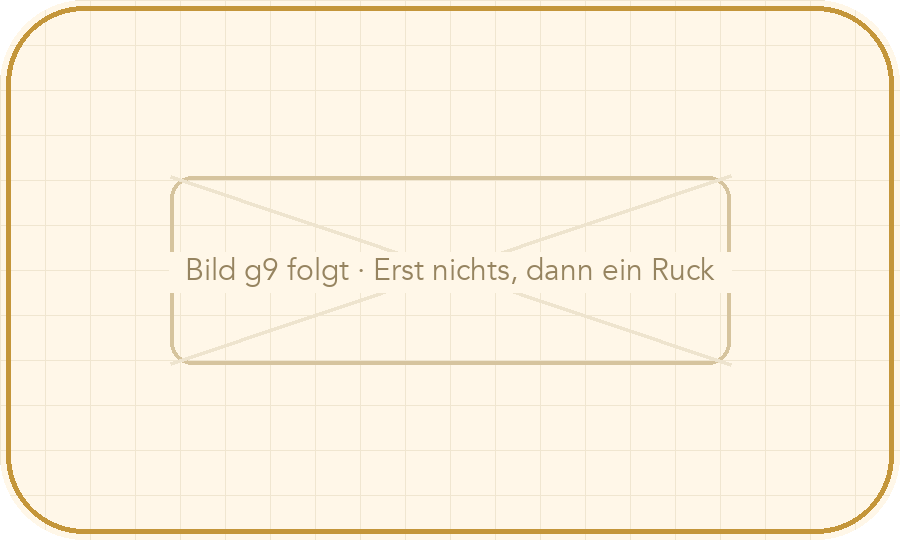
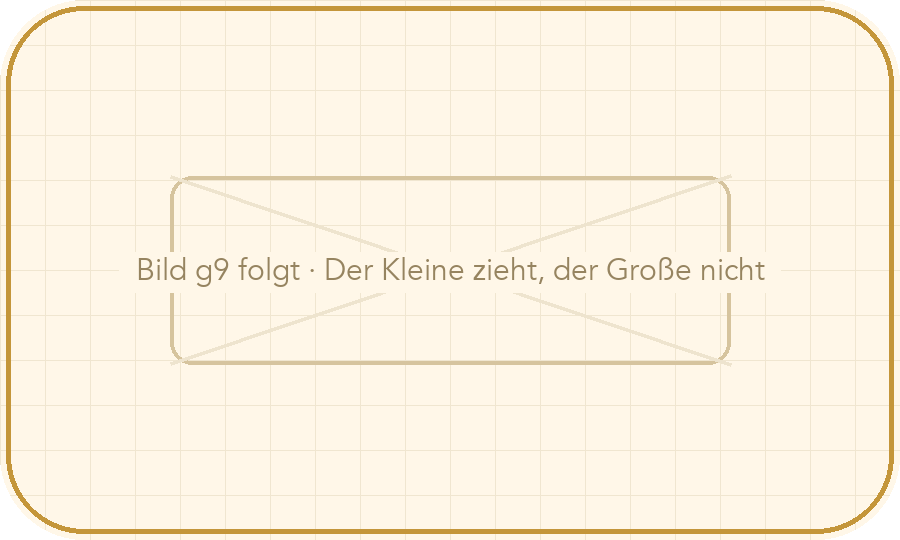
Fuenf Bildauftraege nachgezogen, zwei Bilder zurueckgezogen
Der Bau ordnet Einstiegsbilder ueber den SEITENTITEL zu. Drei der neuen
Einstiege haben einen neuen Titel - damit lag fuer sie kein Bild mehr im
Ordner, und der Bau hat richtig einen Platzhalter gesetzt.

Bei l1 war es umgekehrt und schlimmer: Der Dateiname passte weiter, das
BILD aber nicht mehr. Es zeigte Kerze, Mond und Reflektorstreifen im
dunklen Zimmer - die Seite fragt jetzt, ob Licht geradeaus laeuft, und
der Bildschirm zeigt zwei Blenden mit Loechern. Ein Bild, das die alte
Szene zeigt, ist schlimmer als gar keins: Es widerspricht der Seite,
ohne dass jemand es merkt. Deshalb ueber bilder.ablehnen() an seiner
Pruefsumme vorgemerkt - so holt der naechste Bau es nicht wieder.

KOSTEN, die Abdullah kennen muss: In Klasse 5/6 Realschule tragen sc1
und l1 jetzt einen Platzhalter statt einer fertigen Illustration
(878 KB und 598 KB). Die drei anderen (g9, sl3, sl5) waren ohnehin noch
Platzhalter, dort hat sich nur die Aufschrift geaendert.

Die fuenf Auftraege stehen neu in PROMPTS.md - in der Form des jeweiligen
Bandes, mit Figurenkanon, Verbotszeile und fertigem englischem Prompt.
Die Auftrags-PDFs liegen auf dem Schreibtisch (Klasse 5: 3 Seiten,
Klasse 7: 7, Gymnasium 5/6: 39).

Dazu: stellen.json kennt jetzt die drei Stellungen, die eg7 und kp13
ablesen (N1/N2 = 0,5 und 2,0 am Transformator, 200 cm und 10 min am
Strahlenschutz) - damit stehen ALLE 19 Baende auf 0 Werten ohne
Entsprechung am Bildschirm. me1 sagt jetzt selbst, dass die Zeiten der
[…]

Changed region(s): [[0.1556, 0.4741, 0.84, 0.5333]]

diff --git a/js/heft-bruecke.js b/js/heft-bruecke.js
@@ -61,7 +61,7 @@ const HEFT_SEITEN = {
     sim: "lichtausbreitung", seite: 35,
     kapitel: "Licht & Schatten",
     name: "Lichtquellen und Lichtausbreitung",
-    titel: "Was leuchtet hier eigentlich?",
+    titel: "Zwei Löcher, und trotzdem dunkel",
     frage: "Läuft Licht geradeaus oder um die Ecke?",
     schritte: ["Stelle „Loch der 1. Blende“ auf 0 und „Loch der 2. Blende“ auf 0. Schau nach, ob hinten Licht an der Wand ankommt.", "Lass die 1. Blende auf 0 und schiebe „Loch der 2. Blende“ nach oben und nach unten. Lies ab, wann das Licht verschwindet.", "Stelle „Loch der 1. Blende“ auf +18. Probiere aus, bei welcher Zahl der 2. Blende wieder Licht ankommt."]
   },
@@ -223,7 +223,7 @@ const HEFT_SEITEN = {
     sim: "ton-entsteht", seite: 134,
     kapitel: "Schall & Hören",
     name: "Wie entsteht ein Ton?",
-    titel: "Das Brummen aus der Gitarre",
+    titel: "Das Brummen aus der Keksdose",
     frage: "Wie entsteht ein Ton?",
     schritte: ["Wähle Gummiband zupfen. Beobachte das Band ganz genau und höre hin, ob dabei ein Ton entsteht.", "Wähle nun Finger auf das Band legen. Lies ab, ob das Band noch zittert und ob der Ton weitergeht.", "Gegenprobe am Tisch: Spanne ein Gummiband zwischen deine Finger, zupfe es und stoppe es dann mit dem Daumen."]
   },
@@ -234,7 +234,7 @@ const HEFT_SEITEN = {
     name: "Wovon hängt die Lautstärke ab?",
     titel: "Nicht so laut!",
     frage: "Wovon hängt die Lautstärke ab?",
-    schritte: ["Stelle „So fest zupft Ben am Gummiband“ auf sanft. Beobachte, wie weit das Band ausschlägt, und lies die Lautstärke ab.", "Stelle danach mittel und dann fest ein. Lies jedes Mal ab, wie weit das Band ausschlägt und wie laut der Ton wird.", "Vergleiche zum Schluss sanft und fest. Achte darauf, ob der Ton dabei nur lauter wird oder auch höher klingt."]
+    schritte: ["Stelle „So fest wird am Gummiband gezupft“ auf sanft. Beobachte, wie weit das Band ausschlägt, und lies die Lautstärke ab.", "Stelle danach mittel und dann fest ein. Lies jedes Mal ab, wie weit das Band ausschlägt und wie laut der Ton wird.", "Vergleiche zum Schluss sanft und fest. Achte darauf, ob der Ton dabei nur lauter wird oder auch höher klingt."]
   },
   "sc3": {
     klasse: 5, schulform: "Realschule NRW",
@@ -243,7 +243,7 @@ const HEFT_SEITEN = {
     name: "Wovon hängt die Tonhöhe ab?",
     titel: "Zu hoch, zu tief",
     frage: "Wovon hängt die Tonhöhe ab?",
-    schritte: ["Stelle „So schnell schwingt Emmas Glas (Schwingungen pro Sekunde)“ auf 200 Hz ein. Höre den Ton an.", "Stelle danach 300 Hz und 800 Hz ein. Lies jedes Mal ab, ob der Ton höher oder tiefer klingt als vorher.", "Gegenprobe am Tisch: Fülle zwei Gläser verschieden hoch mit Wasser und schlage sie mit einem Löffel an."]
+    schritte: ["Stelle „Schwingungen pro Sekunde (Frequenz)“ auf 200 Hz ein. Höre den Ton an.", "Stelle danach 300 Hz und 800 Hz ein. Lies jedes Mal ab, ob der Ton höher oder tiefer klingt als vorher.", "Gegenprobe am Tisch: Fülle zwei Gläser verschieden hoch mit Wasser und schlage sie mit einem Löffel an."]
   },
   "sc4": {
     klasse: 5, schulform: "Realschule NRW",
@@ -261,7 +261,7 @@ const HEFT_SEITEN = {
     name: "Wie funktioniert das Ohr?",
     titel: "Das Pfeifen im Ohr",
     frage: "Was geschieht im Ohr, wenn es laut wird?",
-    schritte: ["Stelle „So laut schlägt Noah den Topf an“ auf leise. Beobachte, wie weit das Trommelfell ausschlägt.", "Stelle danach mittel und laut ein. Lies jedes Mal ab, ob das Trommelfell schwächer oder stärker schwingt.", "Gegenprobe am Tisch: Schlage einen Topf mit dem Löffel erst leise, dann kräftig an und fühle den Rand."]
+    schritte: ["Stelle „So laut wird der Topf angeschlagen“ auf leise. Beobachte, wie weit das Trommelfell ausschlägt.", "Stelle danach mittel und laut ein. Lies jedes Mal ab, ob das Trommelfell schwächer oder stärker schwingt.", "Gegenprobe am Tisch: Schlage einen Topf mit dem Löffel erst leise, dann kräftig an und fühle den Rand."]
   },
   "h1": {
     klasse: 5, schulform: "Realschule NRW",
@@ -502,7 +502,7 @@ const HEFT_SEITEN = {
     sim: "gravitation-abstand", seite: 119,
     kapitel: "Sonne, Planeten und Schwerkraft",
     name: "Wovon hängt die Anziehung zweier Körper ab?",
-    titel: "Erst nichts, dann ein Ruck",
+    titel: "Der Kleine zieht, der Große nicht",
     frage: "Wovon hängt die Anziehung zweier Körper ab – von den Massen, vom Abstand?",
     schritte: ["Setze mit zurücksetzen alle Werte auf 1 und lies die Anziehung ab. Dieser Wert ist dein Ausgangswert, mit dem du alles Weitere vergleichst.", "Verdopple mit ×2 Masse links die Masse der linken Kugel und lies ab. Drücke denselben Knopf noch einmal, sodass die Masse viermal so groß ist wie am Anfang, und lies wieder ab.", "Setze zurück und verdopple stattdessen mit ×2 Abstand den Abstand, danach ein zweites Mal. Vergleiche beide Werte mit deinem Ausgangswert."]
   },
@@ -1917,7 +1917,7 @@ const HEFT_SEITEN = {
     name: "Warum ist es nicht überall gleichzeitig hell?",
     titel: "Der staubige Globus neben dem Schrank",
     frage: "Wovon hängt es ab, ob es an einem Ort gerade Tag oder Nacht ist?",
-    schritte: ["Drücke Pause, damit der Globus stehen bleibt und du in Ruhe ablesen kannst.", "Stelle den Regler „Erde von Hand drehen“ nacheinander auf 0°, 90°, 180° und 270° ein.", "Lies bei jeder Stellung die Statuszeile ab und notiere, wer gerade Sonne hat: Ben oder Yumi."]
+    schritte: ["Drücke Pause, damit der Globus stehen bleibt und du in Ruhe ablesen kannst.", "Stelle den Regler „Erde von Hand drehen“ nacheinander auf 0°, 90°, 180° und 270° ein.", "Lies bei jeder Stellung die Statuszeile ab und notiere, wer gerade Sonne hat: dein Ort oder die Gegenseite."]
   },
   "ew3": {
     klasse: 7, schulform: "Gesamtschule NRW",
@@ -2970,16 +2970,16 @@ const HEFT_SEITEN = {
     name: "Was macht einen Ton hoch oder tief?",
     titel: "Helles Pling, tiefes Brummen",
     frage: "Was macht einen Ton hoch oder tief?",
-    schritte: ["Schiebe den Regler»So schnell schwingt Emmas Glas«ganz nach links auf 100 Hz und betrachte, wie weit die Wellenberge auseinanderliegen.", "Lies im Feld»Tonhöhe«ab, ob der Ton tief, mittel oder hoch ist, und trage es mit dem Hz-Wert in die Tabelle ein.", "Stelle nacheinander 300 Hz, 560 Hz und 800 Hz ein und beobachte, wie der Punkt auf der Skala von»tief«nach»hoch«wandert."]
+    schritte: ["Schiebe den Regler»Schwingungen pro Sekunde (Frequenz)«ganz nach links auf 100 Hz und betrachte, wie weit die Wellenberge auseinanderliegen.", "Lies im Feld»Tonhöhe«ab, ob der Ton tief, mittel oder hoch ist, und trage es mit dem Hz-Wert in die Tabelle ein.", "Stelle nacheinander 300 Hz, 560 Hz und 800 Hz ein und beobachte, wie der Punkt auf der Skala von»tief«nach»hoch«wandert."]
   },
   "sl3": {
     klasse: "5/6", schulform: "Gymnasium NRW",
     sim: "lautstaerke", seite: 130,
     kapitel: "Schall",
     name: "Was macht einen Ton laut oder leise?",
-    titel: "Zwei Schläge auf die Trommel",
+    titel: "Zweimal am selben Band gezupft",
     frage: "Was macht einen Ton laut oder leise?",
-    schritte: ["Schiebe den Regler»So fest zupft Ben am Gummiband«ganz nach links und betrachte den Ausschlag der Kurve und die gestrichelte Linie»Amplitude«.", "Lies im Feld»Lautstärke«ab, was dort steht, und trage es in die Tabelle ein.", "Stelle den Regler in die Mitte und danach ganz nach rechts und vergleiche Ausschlag, Balken und Anzeige."]
+    schritte: ["Schiebe den Regler»So fest wird am Gummiband gezupft«ganz nach links und betrachte den Ausschlag der Kurve und die gestrichelte Linie»Amplitude«.", "Lies im Feld»Lautstärke«ab, was dort steht, und trage es in die Tabelle ein.", "Stelle den Regler in die Mitte und danach ganz nach rechts und vergleiche Ausschlag, Balken und Anzeige."]
   },
   "sl4": {
     klasse: "5/6", schulform: "Gymnasium NRW",
@@ -2995,8 +2995,8 @@ const HEFT_SEITEN = {
     sim: "schall", seite: 140,
     kapitel: "Schall",
     name: "Warum hallt es in der Turnhalle?",
-    titel: "Die Halle klatscht zurück",
-    frage: "Warum hallt es in der Turnhalle?",
+    titel: "Flöte und Bass kommen zusammen an",
+    frage: "Sind hohe Töne schneller als tiefe?",
     schritte: ["Schiebe den Regler Frequenz f ganz nach links auf 100 Hz und sieh dir an, wie weit die Verdichtungen im Bild auseinanderliegen.", "Lies im weißen Kästchen oben rechts den Abstand λ und die Geschwindigkeit c ab und trage beide in die Tabelle ein.", "Stelle nacheinander 400 Hz, 1000 Hz und 2000 Hz ein und prüfe jedes Mal, ob sich die Geschwindigkeit c ändert."]
   },
   "sl6": {
@@ -3015,7 +3015,7 @@ const HEFT_SEITEN = {
     name: "Wie hört das Ohr?",
     titel: "Das Häutchen im Kopf",
     frage: "Wie hört das Ohr?",
-    schritte: ["Schiebe den Regler So laut schlägt Noah den Topf an ganz nach links auf leise und beobachte das rote Trommelfell im Bild.", "Stelle danach mittel und laut ein und vergleiche, wie stark das Trommelfell jedes Mal hin- und herschwingt.", "Öffne erst zum Schluss den Klapptext Erst nach dem Versuch öffnen: der Weg des Schalls und lies die sechs Stationen nach."]
+    schritte: ["Schiebe den Regler So laut wird der Topf angeschlagen ganz nach links auf leise und beobachte das rote Trommelfell im Bild.", "Stelle danach mittel und laut ein und vergleiche, wie stark das Trommelfell jedes Mal hin- und herschwingt.", "Öffne erst zum Schluss den Klapptext Erst nach dem Versuch öffnen: der Weg des Schalls und lies die sechs Stationen nach."]
   },
   "sl8": {
     klasse: "5/6", schulform: "Gymnasium NRW",
@@ -3024,7 +3024,7 @@ const HEFT_SEITEN = {
     name: "Was hören Tiere, was wir nicht hören?",
     titel: "Die stumme Pfeife",
     frage: "Was hören Tiere, was wir nicht hören?",
-    schritte: ["Schiebe den Regler So schnell schwingt Emmas Glas ganz nach links auf 100 Hz und lies die Anzeige in der Statuszeile ab.", "Stelle danach 300 Hz und 800 Hz ein und trage jedes Mal ein, ob dort tiefer, mittlerer oder hoher Ton steht.", "Beobachte die violette Welle im Bild: Zähle, ob bei 800 Hz mehr Wellenberge zu sehen sind als bei 100 Hz."]
+    schritte: ["Schiebe den Regler Schwingungen pro Sekunde (Frequenz) ganz nach links auf 100 Hz und lies die Anzeige in der Statuszeile ab.", "Stelle danach 300 Hz und 800 Hz ein und trage jedes Mal ein, ob dort tiefer, mittlerer oder hoher Ton steht.", "Beobachte die violette Welle im Bild: Zähle, ob bei 800 Hz mehr Wellenberge zu sehen sind als bei 100 Hz."]
   },
   "li1": {
     klasse: "5/6", schulform: "Gymnasium NRW",

diff --git a/index.html b/index.html
@@ -669,9 +669,9 @@
 <script src="content.js?v=192"></script>
 <script src="fk-magnet.js?v=4"></script>
 <script src="js/ai_engine.js?v=1"></script>
-<script src="js/sim-lader.js?v=18"></script>
+<script src="js/sim-lader.js?v=19"></script>
 <script src="app.js?v=143"></script>
-<script src="js/heft-bruecke.js?v=64"></script>
+<script src="js/heft-bruecke.js?v=65"></script>
 <script src="js/heft-banner.js?v=6"></script>
 <script src="quiz-game.js?v=1"></script>
 <!-- ── Animated Explainer Modal ─────────────────────────────── -->

diff --git a/js/sim-lader.js b/js/sim-lader.js
@@ -19,7 +19,7 @@
 'use strict';
 
 (function () {
-  const QUELLE = 'physics-sim.js?v=139';
+  const QUELLE = 'physics-sim.js?v=140';
   let laeuft = null;
 
   const melden = simId =>

diff --git a/arbeitsheft/bildauftraege.py b/arbeitsheft/bildauftraege.py
@@ -27,6 +27,13 @@ BEFUND = {
            "Gitarre und Verstärker, die Seite handelt aber von der Waschmaschine hinter der Wand.",
     "w4":  "Für diese Seite gibt es noch kein Bild. Die Seite hieß früher „Aus der Flasche "
            "wird eine Pfütze“ und heißt jetzt „Aus Eis wird Wasser“.",
+    # 16.09.2026: Einstieg und Simulation zusammengefuehrt. Die beiden alten
+    # Bilder waren in sich gut, zeigen jetzt aber eine andere Szene als die Seite.
+    "sc1": "Das bisherige Bild zeigt einen Jungen mit einer Gitarre. Am Bildschirm ist "
+           "aber ein Gummiband über einer Keksdose gespannt, und darauf zeigt die Seite jetzt auch.",
+    "l1":  "Das bisherige Bild zeigt Kerze, Mond und Reflektorstreifen im dunklen Zimmer. "
+           "Die Seite fragt aber, ob Licht geradeaus läuft, und der Bildschirm zeigt zwei "
+           "Blenden mit Löchern.",
 }
 # Alle Themen, fuer die je ein Auftrag geschrieben wurde, in der Reihenfolge des Blattes.
 def _kandidaten():

diff --git a/arbeitsheft_gym56/bilder/PROMPTS.md b/arbeitsheft_gym56/bilder/PROMPTS.md
@@ -317,16 +317,16 @@ ONE single scene in ONE frame, ONE frozen instant. Absolutely no film strip, no 
 ONE single scene in ONE frame, ONE frozen instant. Absolutely no film strip, no comic panels, no before-and-after, no split screen, no repeated objects, no sequence, no insets, no round inset circle, no arrows, no arrowheads, no dashed lines, no ray diagram, no drawn light rays, no captions, no labels, no text of any kind. warm painterly children's educational illustration, storybook realism, hand-painted look, NOT a photograph, not flat vector cartoon, clear readable silhouettes, smooth soft gradients, muted warm palette, wide 5:3 landscape composition, no text, no letters, no numbers, no logos, no watermark.: medium close shot from the front at table height in an old school physics room: on a worktable lies ONE single long board of pale wood with four taut strings mounted side by side, ranging from clearly thick to very thin, every string straight, sharp and perfectly still; the board runs out of the picture on the right where the frame cuts it off; Aras, an eleven-year-old boy with short black curls, wearing a green sweatshirt and grey trousers, sits behind it and holds his index finger hovering just above the thickest string without touching it; Lina, an eleven-year-old girl with shoulder-length dark brown hair held by a small blue hair clip, wearing a mustard-yellow sweater and jeans, has bent down low, her face almost at table level, studying the strings from the side with narrowed curious eyes; behind them an open battered wooden crate and a pegboard experiment wall with hanging tools, warm window light from the left; only ONE board in the whole picture, all strings drawn as sharp still lines, no vibrating or blurred string, no doubled string, no motion lines, no drawn sound waves, no rings in the air, no musical notes.
 ```
 
-### `sl3 Zwei Schläge auf die Trommel.png` — sl3
+### `sl3 Zweimal am selben Band gezupft.png` — sl3
 
-> Aras hat den Schlägel hoch über die Trommel gehoben, Lina hält ihren locker im Schoß — das gespannte Fell liegt glatt und still da und verrät nicht, was gleich den Unterschied zwischen laut und leise macht.
+> Aras hat das Gummiband über der Keksdose weit zur Seite gezogen und hält es im letzten Moment vor dem Loslassen — Lina, die eben nur ganz leicht gezupft hat, schaut zu und hält sich schon ein Ohr zu.
 
-**Motiv:** Halbtotale leicht von der Seite auf Kinderhöhe: In der Mitte des Physikraums steht eine einzelne alte Handtrommel mit glattem, hellem Fell auf einem Hocker, das Fell völlig eben und ruhig; die Trommel steht weit rechts, ihr Rand berührt fast den rechten Bildrand, dort hört das Bild auf; Aras (elf, kurze schwarze Locken, grünes Sweatshirt, graue Hose), steht dahinter und hat den Filzschlägel mit weit ausgeholtem Arm hoch über den Kopf gehoben, der Schlägel eingefroren am obersten Punkt; Lina (elf, schulterlanges dunkelbraunes Haar mit kleiner blauer Haarspange, senfgelber Pullover, Jeans), sitzt links auf einer Holzkiste, ihren eigenen Schlägel locker im Schoß, und schaut gespannt auf das Fell; im Hintergrund die Experimentierwand und das aufgeschlagene AG-Heft auf einem Tisch, warmes Deckenlicht.
+**Motiv:** Halbtotale leicht von der Seite auf Kinderhöhe: Auf dem Tisch des Physikraums steht eine einzelne leere runde Keksdose, über die ein dickes Gummiband gespannt ist; die Dose steht weit rechts, ihr Rand berührt fast den rechten Bildrand. Aras (elf, kurze schwarze Locken, grünes Sweatshirt, graue Hose), hat das Band mit einem Finger weit zur Seite gezogen und hält es eingefroren im letzten Augenblick vor dem Loslassen. Lina (elf, schulterlanges dunkelbraunes Haar mit kleiner blauer Haarspange, senfgelber Pullover, Jeans), sitzt links auf einer Holzkiste, eine Hand locker im Schoß, die andere schon am Ohr, und schaut gespannt auf das Band. Im Hintergrund die Experimentierwand und das aufgeschlagene AG-Heft auf einem Tisch, warmes Deckenlicht.
 
-**Darf nicht zu sehen sein:** Keine zweite Trommel und kein zweiter Schlag, kein eingedelltes, gewölbtes, verschwommenes oder zitterndes Fell, keine Bewegungslinien am Schlägel oder am Fell, keine gemalten Schallwellen, Ringe oder Notensymbole in der Luft, kein rundes Nebenbild mit dem Fell in Großaufnahme, keine Pfeile, keine Laut-/Leise-Beschriftung — nichts darf schon zeigen, was das Fell beim lauten Schlag anders macht.
+**Darf nicht zu sehen sein:** Keine zweite Dose und kein zweites Band, kein schwingendes, verwischtes oder doppelt gezeichnetes Gummiband, keine Bewegungslinien, keine gemalten Schallwellen, Ringe oder Notensymbole in der Luft, kein rundes Nebenbild mit dem Band in Großaufnahme, keine Pfeile, keine Laut-/Leise-Beschriftung — nichts darf schon zeigen, was das Band beim lauten Zupfen anders macht.
 
 ```
-ONE single scene in ONE frame, ONE frozen instant. Absolutely no film strip, no comic panels, no before-and-after, no split screen, no repeated objects, no sequence, no insets, no round inset circle, no arrows, no arrowheads, no dashed lines, no ray diagram, no drawn light rays, no captions, no labels, no text of any kind. warm painterly children's educational illustration, storybook realism, hand-painted look, NOT a photograph, not flat vector cartoon, clear readable silhouettes, smooth soft gradients, muted warm palette, wide 5:3 landscape composition, no text, no letters, no numbers, no logos, no watermark.: medium wide shot slightly from the side at child height in an old school physics room: ONE single old hand drum with a smooth pale drumhead stands on a wooden stool, the drumhead perfectly flat and still, the drum placed far to the right so its rim almost touches the right edge of the picture; Aras, an eleven-year-old boy with short black curls, wearing a green sweatshirt and grey trousers, stands behind it, his arm swung far up, holding a felt-headed mallet frozen high above his head at the top of the swing, eager focused face; Lina, an eleven-year-old girl with shoulder-length dark brown hair held by a small blue hair clip, wearing a mustard-yellow sweater and jeans, sits on a wooden crate on the left with her own mallet resting loosely in her lap, watching the drumhead intently; behind them a pegboard experiment wall with hanging tools and an open notebook on a table, warm ceiling light; only ONE drum and only ONE strike in the whole picture, the drumhead drawn smooth, flat and still, no dented or bulging drumhead, no blurred or doubled drumhead, no motion lines, no drawn sound waves, no rings in the air or on the drum, no musical notes.
+ONE single scene in ONE frame, ONE frozen instant. Absolutely no film strip, no comic panels, no before-and-after, no split screen, no repeated objects, no sequence, no insets, no round inset circle, no arrows, no arrowheads, no dashed lines, no ray diagram, no drawn light rays, no captions, no labels, no text of any kind. warm painterly children's educational illustration, storybook realism, hand-painted look, NOT a photograph, not flat vector cartoon, clear readable silhouettes, smooth soft gradients, muted warm palette, wide 5:3 landscape composition, no text, no letters, no numbers, no logos, no watermark.: medium wide shot slightly from the side at child height in an old school physics room: ONE single empty round biscuit tin with ONE thick rubber band stretched across it stands on a wooden table, the tin placed far to the right so its rim almost touches the right edge of the picture; Aras, an eleven-year-old boy with short black curls, wearing a green sweatshirt and grey trousers, has pulled the rubber band far to one side with one finger and holds it frozen in the last instant before letting go, eager focused face; Lina, an eleven-year-old girl with shoulder-length dark brown hair held by a small blue hair clip, wearing a mustard-yellow sweater and jeans, sits on a wooden crate on the left, one hand resting in her lap, the other already cupped over one ear, watching the band intently; behind them a pegboard experiment wall with hanging tools and an open notebook on a table, warm ceiling light; only ONE tin and ONE rubber band in the whole picture, the band drawn as a single sharp taut line, no blurred or doubled band, no motion lines, no drawn sound waves, no rings in the air, no musical notes.
 ```
 
 ### `sl4 Ein Ohr an der Tischplatte.png` — sl4
@@ -341,18 +341,17 @@ ONE single scene in ONE frame, ONE frozen instant. Absolutely no film strip, no 
 ONE single scene in ONE frame, ONE frozen instant. Absolutely no film strip, no comic panels, no before-and-after, no split screen, no repeated objects, no sequence, no insets, no round inset circle, no arrows, no arrowheads, no dashed lines, no ray diagram, no drawn light rays, no captions, no labels, no text of any kind. warm painterly children's educational illustration, storybook realism, hand-painted look, NOT a photograph, not flat vector cartoon, clear readable silhouettes, smooth soft gradients, muted warm palette, wide 5:3 landscape composition, no text, no letters, no numbers, no logos, no watermark.: medium wide shot from the front just above table height in an old school physics room, ONE long wooden table running as a diagonal through the picture: in the left foreground Aras, an eleven-year-old boy with short black curls, wearing a green sweatshirt and grey trousers, kneels on a chair and presses one ear flat against the tabletop, eyes closed in concentration, his free hand cupped over his other ear; at the far end of the table on the right Lina, an eleven-year-old girl with shoulder-length dark brown hair held by a small blue hair clip, wearing a mustard-yellow sweater and jeans, bends low over the table with one fingertip touching the wood, her hand right at the right edge of the picture where the frame cuts off; between the two children nothing but the empty, warmly glowing wooden tabletop with scratches and knotholes; in the background a friendly middle-aged teacher with glasses and a grey wool vest leans against a pegboard experiment wall, smiling gently; warm evening light through the window; the tabletop plain and calm, no drawn sound waves, no arcs, rings or dotted trails in the wood or in the air, no glow or shimmer traveling along the table, no arrows between the two children, no musical notes.
 ```
 
-### `sl5 Die Halle klatscht zurück.png` — sl5
+### `sl5 Flöte und Bass kommen zusammen an.png` — sl5
 
-> Ein einziges Klatschen in der riesigen leeren Turnhalle – und Lina fährt herum, als hätte von der fernen Wand noch jemand mitgeklatscht.
+> Weit hinten auf der Bühne spielen Flöte und Kontrabass zur selben Zeit, vorn stehen Lina und Aras — zwischen ihnen und der Musik liegt der ganze leere Schulhof, und beides kommt trotzdem gemeinsam an.
 
-**Motiv:** Weite Aufnahme von leicht unten auf Kinderhöhe, mitten in einer großen, leeren Turnhalle am Morgen: Aras, elf, kurze schwarze Locken, grünes Sweatshirt, graue Hose, steht mit gerade zusammengeschlagenen Händen vor der Brust, der Mund noch offen vor Übermut, den Blick nach oben in die hohe Halle gerichtet; neben ihm Lina, elf, schulterlanges dunkelbraunes Haar mit kleiner blauer Haarspange, senfgelber Pullover, Jeans, das AG-Heft unter den Arm geklemmt, hat sich halb zur fernen Stirnwand umgedreht und hebt lauschend eine Hand ans Ohr; um die beiden nichts als glänzender Hallenboden mit Spielfeldlinien, links eine Sprossenwand und hohe Fenster mit Morgenlicht, und die kahle, weit entfernte Stirnwand der Halle schneidet den rechten Bildrand – dort hört das Bild auf.
+**Motiv:** Weite Halbtotale auf Kinderhöhe über den Schulhof beim Sommerfest: Ganz hinten auf einer niedrigen Bühne spielt eine Schulband, deutlich erkennbar eine Flötenspielerin und ein Kontrabassist, beide klein im Bild. Ganz vorn stehen Lina (elf, schulterlanges dunkelbraunes Haar mit kleiner blauer Haarspange, senfgelber Pullover, Jeans), und Aras (elf, kurze schwarze Locken, grünes Sweatshirt, graue Hose), nebeneinander und hören zu; Aras hat den Kopf leicht schräg gelegt. Dazwischen liegt der weite leere Schulhof, seitlich Wimpelketten und ein paar Besucher, warmes Nachmittagslicht.
 
-**Darf nicht zu sehen sein:** Keine gezeichneten Schallwellen, keine Bögen, Ringe oder konzentrischen Kreise in der Luft, kein zweites Zimmer, kein Physikraum, kein Vergleichsraum in irgendeiner Ecke, kein zweites Klatschen, keine doppelte Darstellung von Aras, keine Pfeile, kein Diagramm, kein rundes Nebenbild, keine Beschriftung – nichts darf zeigen, dass der Schall von den Wänden zurückgeworfen wird.
+**Darf nicht zu sehen sein:** Keine gemalten Schallwellen, Bögen, Ringe oder Notensymbole in der Luft, keine Linien oder Pfeile von der Bühne zu den Kindern, kein geteiltes Bild für hohen und tiefen Ton, kein rundes Nebenbild, keine Beschriftung der Instrumente — nichts darf schon zeigen, ob die beiden Töne verschieden schnell sind.
 
 ```
-ONE single scene in ONE frame, ONE frozen instant. Absolutely no film strip, no comic panels, no before-and-after, no split screen, no repeated objects, no sequence, no insets, no round inset circle, no arrows, no arrowheads, no dashed lines, no ray diagram, no drawn light rays, no drawn sound waves, no captions, no labels, no text of any kind. warm painterly children's educational illustration, storybook realism, hand-painted look, NOT a photograph, not flat vector cartoon, clear readable silhouettes, smooth soft gradients, muted warm palette, wide 5:3 landscape composition, no text, no letters, no numbers, no logos, no watermark.: wide shot from slightly below at child height, inside a huge empty school gymnasium in the morning: Aras, an eleven-year-old boy with short black curls, wearing a green sweatshirt and grey trousers, stands in the middle of the shiny wooden gym floor, his hands still pressed together in front of his chest from a single loud clap, mouth open with delight, eyes turned up into the tall empty space; beside him Lina, an eleven-year-old girl with shoulder-length dark brown hair held by a small blue hair clip, wearing a mustard-yellow sweater and jeans, a thin notebook clamped under her arm, has half turned around toward the far end of the hall and lifts one hand to her ear, listening; painted court lines on the floor, wall bars and tall bright windows with morning light on the left, and the bare distant end wall of the hall is cut off by the right edge of the picture; the hall is completely empty otherwise, only the two children, still air, nothing else happening; no other person anywhere, no second room, no small physics room, no mirror image of the boy, no drawn arcs or rings or ripples in the air, no echo made visible, no arrows, no diagrams, no inset picture.
+ONE single scene in ONE frame, ONE frozen instant. Absolutely no film strip, no comic panels, no before-and-after, no split screen, no repeated objects, no sequence, no insets, no round inset circle, no arrows, no arrowheads, no dashed lines, no ray diagram, no drawn light rays, no captions, no labels, no text of any kind. warm painterly children's educational illustration, storybook realism, hand-painted look, NOT a photograph, not flat vector cartoon, clear readable silhouettes, smooth soft gradients, muted warm palette, wide 5:3 landscape composition, no text, no letters, no numbers, no logos, no watermark.: wide medium shot at child height across a school yard during a summer fair: far in the background a low stage with a school band playing, among them a girl playing a flute and a boy playing a double bass, both small in the frame; in the foreground Lina, an eleven-year-old girl with shoulder-length dark brown hair held by a small blue hair clip, wearing a mustard-yellow sweater and jeans, and Aras, an eleven-year-old boy with short black curls, wearing a green sweatshirt and grey trousers, stand side by side listening, the boy tilting his head slightly; between them and the stage a wide expanse of empty school yard clearly readable as distance; bunting and a few visitors at the sides, warm afternoon light; the air completely plain, no drawn sound waves, no arcs or rings, no lines or arrows from the stage to the children, no musical notes.
 ```
-
 ### `sl6 Der Bohrer hinter der Wand.png` — sl6
 
 > Im Physikraum dröhnt es durch die Wand, Lina presst die Hände auf die Ohren – und Herr Weber drückt gerade die Tür ins Schloss.

diff --git a/arbeitsheft/bilder/PROMPTS.md b/arbeitsheft/bilder/PROMPTS.md
@@ -115,22 +115,21 @@ ONE single scene, no panels, no insets, no arrows, no wave or ripple symbols, no
 
 ## Licht & Schatten
 
-### `l1.png` — Was leuchtet hier eigentlich?
+### `l1.png` — Zwei Löcher, und trotzdem dunkel
 
-*Lichtquellen und Lichtausbreitung*
+*Wie sich Licht ausbreitet*
 
-> Im ganzen Haus ist es dunkel. Emma zündet die Kerze an. An der Decke schimmern die Leuchtsterne schwach nach. Am Fenster steht der Mond. Auf dem Schulranzen blitzt der Reflektorstreifen auf, sobald die Taschenlampe ihn trifft. Ohne die Lampe ist der Streifen wieder weg.
+> Emma hält zwei Pappstreifen hintereinander, jeder mit einem kleinen Loch. Ben leuchtet mit der Taschenlampe von vorn darauf. An der Wand dahinter bleibt es trotzdem dunkel. Dabei brennt die Lampe hell. Emma verschiebt einen Streifen ein Stück zur Seite.
 
-**Untersuche: Wovon hängt es ab, ob man etwas im Dunkeln leuchten sieht?**
+**Untersuche: Wovon hängt es ab, ob das Licht an der Wand ankommt?**
 
-**Motiv:** Dunkles Wohnzimmer bei Stromausfall: brennende Kerze auf dem Tisch, blassgrüne Leuchtsterne an der Decke, Mond am Fenster, ein Schulranzen, dessen Reflektorstreifen im Taschenlampenstrahl aufblitzt.
+**Motiv:** Abgedunkeltes Zimmer. Ben hält eine Taschenlampe, Emma zwei aufrecht stehende Pappstreifen mit je einem Loch, versetzt hintereinander. Die Wand dahinter bleibt dunkel.
 
-**Darf nicht zu sehen sein:** Nichts erklären — die Lichtquellen stehen nur nebeneinander.
+**Darf nicht zu sehen sein:** Kein gezeichneter Strahlengang, keine Linie durch die Löcher, kein Lichtfleck an der Wand — sonst steht die Antwort schon im Bild.
 
 ```
-ONE single scene, no panels, no insets, no arrows, no wave or ripple symbols, no speaker or ear icons, no captions, no labels, no text of any kind. warm painterly children's educational illustration, storybook realism, clear readable silhouettes, smooth soft gradients, gentle light from the upper left, muted warm palette, wide 5:3 landscape composition, no text, no letters, no numbers, no logos, no watermark. a dark living room during a power cut; a single lit candle on the table, faint pale-green glow-in-the-dark stars on the ceiling, the moon visible through the window, and on the floor a school backpack whose wide reflective stripe flares brightly where a torch beam hits it; everything else sinks into darkness
+ONE single scene, no panels, no insets, no arrows, no wave or ripple symbols, no speaker or ear icons, no captions, no labels, no text of any kind. warm painterly children's educational illustration, storybook realism, clear readable silhouettes, smooth soft gradients, gentle light from the upper left, muted warm palette, wide 5:3 landscape composition, no text, no letters, no numbers, no logos, no watermark. a dimmed room, a boy holding a small torch pointed at two upright pieces of cardboard held by a girl, each card has one small round hole, the two holes clearly NOT lined up with each other, the wall behind them stays dark and empty, the beam is only visible as a soft glow right at the torch
 ```
-
 ### `l2.png` — Es liegt doch direkt da
 
 *Wie können wir einen Gegenstand sehen?*
@@ -413,22 +412,21 @@ ONE single scene, no panels, no insets, no arrows, no wave or ripple symbols, no
 
 ## Schall & Hören
 
-### `sc1.png` — Das Brummen aus der Gitarre
+### `sc1.png` — Das Brummen aus der Keksdose
 
-*Wie entsteht ein Ton?*
+*Wie ein Ton entsteht*
 
-> Jonas zupft eine Saite der Gitarre. Sofort brummt ein tiefer Ton durch den Keller. Dann schaut er genauer hin. Die Saite ist auf einmal ganz verschwommen. Es sieht aus, als wären da mehrere Saiten. Legt er den Finger darauf, ist der Ton sofort weg.
+> Jonas spannt ein dickes Gummiband über eine leere Keksdose. Er zupft daran, und ein tiefer Ton brummt durch den Keller. Das Band sieht dabei ganz verschwommen aus. Emma sagt, der Ton komme aus der hohlen Dose. Jonas legt einen Finger auf das Band und ist sich nicht mehr sicher.
 
-**Untersuche: Wovon hängt es ab, ob die Saite einen Ton macht?**
+**Untersuche: Wovon hängt es ab, ob die Dose einen Ton macht?**
 
-**Motiv:** Nahaufnahme einer Akustikgitarre; eine gezupfte Saite ist sichtbar verschwommen, als lägen mehrere übereinander.
+**Motiv:** Kellerraum. Jonas zupft ein dickes Gummiband, das über eine leere runde Keksdose gespannt ist; das Band ist in der Bewegung unscharf. Emma sitzt daneben und hört zu.
 
-**Darf nicht zu sehen sein:** Keine Schallwellen, keine Notenzeichen.
+**Darf nicht zu sehen sein:** Keine Schallwellen, keine Ringe, keine Notenzeichen — dass der Ton vom Schwingen kommt, soll der Versuch zeigen, nicht das Bild.
 
 ```
-ONE single scene, no panels, no insets, no arrows, no wave or ripple symbols, no speaker or ear icons, no captions, no labels, no text of any kind. warm painterly children's educational illustration, storybook realism, clear readable silhouettes, smooth soft gradients, gentle light from the upper left, muted warm palette, wide 5:3 landscape composition, no text, no letters, no numbers, no logos, no watermark. close-up of an acoustic guitar body in a cellar; one single string has just been plucked and is visibly blurred into several overlapping ghost images as it vibrates, while the neighbouring strings stay perfectly sharp
+ONE single scene, no panels, no insets, no arrows, no wave or ripple symbols, no speaker or ear icons, no captions, no labels, no text of any kind. warm painterly children's educational illustration, storybook realism, clear readable silhouettes, smooth soft gradients, gentle light from the upper left, muted warm palette, wide 5:3 landscape composition, no text, no letters, no numbers, no logos, no watermark. a basement room, a boy plucking a thick rubber band stretched across an empty round biscuit tin on a low table, the rubber band is motion-blurred where his finger just left it, a girl sitting beside him listening closely, plain concrete wall behind
 ```
-
 ### `sc2.png` — Nicht so laut!
 
 *Wovon hängt die Lautstärke ab?*

diff --git a/arbeitsheft7/bilder/PROMPTS.md b/arbeitsheft7/bilder/PROMPTS.md
@@ -284,16 +284,16 @@ ONE single scene, no panels, no insets, no arrows, no captions, no labels, no te
 ONE single scene, no panels, no insets, no arrows, no captions, no labels, no text of any kind. warm painterly children's educational illustration, storybook realism, clear readable silhouettes, smooth soft gradients, deep night palette with warm lamplight accents, wide 5:3 landscape composition, twelve-year-old characters, no text, no letters, no numbers, no logos, no watermark. a boy sitting on a crate at the edge of a dark field, an open book and a sheet of scribbled illegible calculations on his knees, a pencil in his hand; he looks up at one single bright star; a telescope on a tripod stands beside him
 ```
 
-### `Erst nichts, dann ein Ruck.png` — g9
+### `Der Kleine zieht, der Große nicht.png` — g9
 
-> Aus zehn Zentimetern passiert nichts. Bei zwei Zentimetern springt die Klammer plötzlich hoch.
+> Der Mond steht groß im Okular, der viel größere Jupiter bleibt ein Pünktchen. Und trotzdem macht der Mond bei uns Ebbe und Flut.
 
-**Motiv:** NAHAUFNAHME, GEMALT wie die übrigen Bilder des Hefts, kein Foto. Eine Kinderhand hält einen kleinen Stabmagneten dicht über eine einzelne Büroklammer. Die Klammer **liegt flach auf der Holztischplatte und berührt sie**. Zwischen Magnet und Klammer ein schmaler Spalt.
+**Motiv:** Nachts auf dem Feld. Mia schaut durch das aufgebaute Fernrohr, Ben hält daneben ein aufgeschlagenes Tabellenbuch in den Schein seiner Taschenlampe und tippt auf eine Zahlenspalte. Über beiden steht der helle Mond tief am Himmel, weiter oben ein einzelner winziger heller Punkt.
 
-**Darf nicht zu sehen sein:** Die Klammer darf NICHT in der Luft schweben, hängen oder kippen – dass sie hochspringt, ist die Antwort. Keine Bewegungslinien, keine Funken, keine Feldlinien, kein Lineal, kein ganzer Junge, kein Foto-Look.
+**Darf nicht zu sehen sein:** Keine Kraftpfeile, keine Bahnlinien, keine Formel, kein Größenvergleich zweier Planeten nebeneinander, kein rundes Nebenbild mit Jupiter in Großaufnahme — dass Abstand mehr zählt als Masse, soll der Versuch zeigen.
 
 ```
-ONE single scene in ONE frame, ONE frozen instant. Absolutely no film strip, no comic panels, no before-and-after, no split screen, no repeated figures, no sequence, no insets, no round inset circle, no thought bubble, no arrows, no dashed lines, no captions, no labels, no clocks with readable times, no text of any kind. warm painterly children's educational illustration, storybook realism, hand-painted look, NOT a photograph, no photorealism, not flat vector cartoon, clear readable silhouettes, smooth soft gradients, muted warm palette, wide 5:3 landscape composition, twelve-year-old characters with brown hair, no text, no letters, no numbers, no logos, no watermark. a close-up filling the frame, painted illustration style: one child's hand holds a small bar magnet a short distance above one single paper clip; the paper clip lies completely flat ON the wooden table top and clearly touches the wood, it is not lifted and not floating; a narrow gap of air separates magnet and clip; warm side light; nothing else in the frame, no arm, no face, no room
+ONE single scene in ONE frame, ONE frozen instant. Absolutely no film strip, no comic panels, no before-and-after, no split screen, no repeated figures, no sequence, no insets, no round inset circle, no thought bubble, no arrows, no dashed lines, no captions, no labels, no text of any kind. warm painterly children's educational illustration, storybook realism, hand-painted look, NOT a photograph, no photorealism, not flat vector cartoon, clear readable silhouettes, smooth soft gradients, muted warm palette, wide 5:3 landscape composition, twelve-year-old characters with brown hair, no text, no letters, no numbers, no logos, no watermark. night on an open field under a clear sky: a twelve-year-old girl with brown hair looks through an amateur telescope on a tripod; beside her a twelve-year-old boy with brown hair holds an open reference book lit by a small torch and points at a column of figures; low in the sky one large bright moon, higher up one single tiny bright dot; dark grass, a dark treeline on the horizon, no other light sources, no planets shown side by side, no size comparison, no diagram
 ```
 
 ### `Zweimal am Tag.png` — g10
